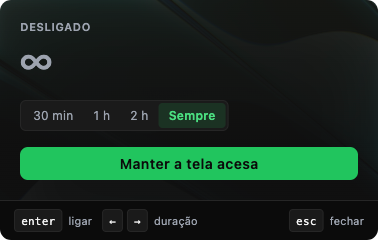
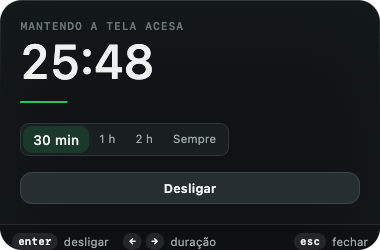
feat(onboarding): prints novos dos seis painéis em uso
A intro passa a mostrar um print de cada módulo com painel, em uso, e
ganha o Nest como sexto passo. Os prints agora saem dos goldens de
conferência, com dados de exemplo, em vez de capturas de tela com o
histórico de quem tirou.

Para os goldens servirem de vitrine, as fontes deles passam a ser as
que o app desenha (SF do sistema, no lugar do Arial) e ganham a Apple
Symbols de reserva para ⌘⌥⇧, que saíam como quadrados. A fixture do
Nest troca o caminho temporário e os "2 KB" por uma pasta e tamanhos
de verdade. Os 25 goldens foram regenerados.

diff --git a/lib/features/home/models/onboarding_step.dart b/lib/features/home/models/onboarding_step.dart
@@ -20,14 +20,22 @@ class OnboardingStep {
 
   final EvergreenModule module;
 
-  /// Print do painel real, recortado rente à borda dele.
+  /// Print do painel em uso, recortado rente à borda dele.
+  ///
+  /// Sai do golden de conferência do mesmo painel (`test/goldens/`), e não de
+  /// uma captura de tela: assim o print mostra dados de exemplo em vez do
+  /// histórico de quem tirou, e refazer os seis depois de uma mudança de
+  /// interface é rodar os goldens e recortar de novo. O recorte é o retângulo
+  /// do painel (tudo o que é mais claro que o fundo do golden), com os cantos
+  /// transparentes no raio do painel — o palco é verde, e o fundo do golden
+  /// apareceria nas quinas.
   final String image;
 
   /// Largura natural do print, em pixels.
   ///
-  /// Está aqui porque o palco **nunca amplia**: um print de 418px esticado para
+  /// Está aqui porque o palco **nunca amplia**: um print de 420px esticado para
   /// 556 fica borrado, e borrado é o que denuncia print de marketing. Quando o
-  /// print é mais largo que o palco — só o Leaf, com 776 —, ele reduz; nos
+  /// print é mais largo que o palco — só o Leaf, com 778 —, ele reduz; nos
   /// outros o palco simplesmente sobra em volta, que é o efeito desejado.
   final double imageWidth;
 
@@ -42,9 +50,9 @@ class OnboardingStep {
   /// Duas linhas. Mais que isso ninguém lê numa tela que se atravessa.
   final String line;
 
-  /// A ordem é a do Hub, e não a de importância declarada: o Pin abre porque é
-  /// o que a pessoa usa no primeiro minuto, e o Echo fecha porque é o que exige
-  /// mais dela (permissão de microfone, macOS 26).
+  /// A ordem é a do Hub, com uma troca: o Pin abre porque é o que a pessoa usa
+  /// no primeiro minuto, e o Echo fecha porque é o que exige mais dela
+  /// (permissão de microfone, macOS 26) — por isso o Nest vem antes dele.
   ///
   /// O Track fica de fora: ele não tem painel, só a tela do Hub, e um passo sem
   /// print seria o passo em que a apresentação admite que acabou o assunto.
@@ -52,18 +60,18 @@ class OnboardingStep {
     OnboardingStep(
       module: EvergreenModule.pin,
       image: 'assets/onboarding/pin.png',
-      imageWidth: 418,
-      imageHeight: 467,
+      imageWidth: 420,
+      imageHeight: 452,
       shortcut: '⌘⇧C',
       line:
-          'Tudo que você copia fica guardado aqui, com busca e fixados.\n'
+          'Tudo o que você copia fica guardado aqui, com busca e fixados.\n'
           'Nada sai da sua máquina.',
     ),
     OnboardingStep(
       module: EvergreenModule.focus,
       image: 'assets/onboarding/focus.png',
-      imageWidth: 378,
-      imageHeight: 250,
+      imageWidth: 380,
+      imageHeight: 410,
       shortcut: '⌘⇧F',
       line:
           'Um cronômetro que pergunta no que você vai trabalhar e guarda\n'
@@ -72,8 +80,8 @@ class OnboardingStep {
     OnboardingStep(
       module: EvergreenModule.leaf,
       image: 'assets/onboarding/leaf.png',
-      imageWidth: 776,
-      imageHeight: 494,
+      imageWidth: 778,
+      imageHeight: 736,
       shortcut: '⌘⇧D',
       line:
           'Nove anotações curtas, todas à vista de uma vez.\n'
@@ -82,18 +90,28 @@ class OnboardingStep {
     OnboardingStep(
       module: EvergreenModule.awake,
       image: 'assets/onboarding/awake.png',
-      imageWidth: 378,
-      imageHeight: 240,
+      imageWidth: 380,
+      imageHeight: 250,
       shortcut: '⌘⇧X',
       line:
-          'Segura a tela acesa pelo tempo que você escolher.\n'
+          'Mantém a tela acesa pelo tempo que você escolher.\n'
           'Sem abrir as configurações de energia.',
+    ),
+    OnboardingStep(
+      module: EvergreenModule.nest,
+      image: 'assets/onboarding/nest.png',
+      imageWidth: 420,
+      imageHeight: 434,
+      shortcut: '⌘⇧R',
+      line:
+          'Junte arquivos de várias pastas numa prateleira só\n'
+          'e mande todos de uma vez para onde precisam ir.',
     ),
     OnboardingStep(
       module: EvergreenModule.echo,
       image: 'assets/onboarding/echo.png',
-      imageWidth: 378,
-      imageHeight: 214,
+      imageWidth: 380,
+      imageHeight: 318,
       shortcut: '⌘⇧E',
       line:
           'Grava a reunião, separa a sua voz da dos outros e devolve em texto.\n'

diff --git a/test/golden_fonts.dart b/test/golden_fonts.dart
@@ -10,25 +10,23 @@ import 'package:flutter_test/flutter_test.dart';
 /// entra pelo mesmo motivo: sem uma mono de verdade os key-caps mediriam errado
 /// e esconderiam problemas de largura na barra de dicas.
 ///
+/// **As fontes são as que o app desenha de fato.** O Inter não vem empacotado,
+/// então no Mac quem responde é o SF do sistema (o fallback do tema) — e é ele
+/// que entra aqui no lugar do Inter. Era Arial, e os goldens mostravam um app
+/// que ninguém via. A `Apple Symbols` entra pelos nomes do fim de cada fallback
+/// porque nem o SF nem o SF Mono têm `⌘`, `⌥` e `⇧`: sem ela, toda tecla da
+/// barra de dicas virava um quadrado. Esses prints também são os da
+/// apresentação de boas-vindas (`assets/onboarding/`).
+///
 /// Compartilhada pelos arquivos de golden — duas cópias desta lista significam
 /// duas imagens desenhadas com fontes diferentes na primeira vez que uma delas
 /// mudar.
 Future<void> loadGoldenFonts() async {
   const faces = {
-    'Inter': [
-      '/System/Library/Fonts/Supplemental/Arial.ttf',
-      '/System/Library/Fonts/Supplemental/Arial Bold.ttf',
-    ],
-    'SF Mono': ['/System/Library/Fonts/Supplemental/Andale Mono.ttf'],
-    // O tema Apple pede a fonte do sistema (família nula, com estes nomes no
-    // fallback). Sob `flutter test` não existe fonte de sistema, e o texto sai
-    // como quadrados — registrar os mesmos arquivos sob os nomes que ele
-    // procura é o que faz as imagens dele conferirem alguma coisa. No app de
-    // verdade quem responde é o macOS.
-    'SF Pro Text': [
-      '/System/Library/Fonts/Supplemental/Arial.ttf',
-      '/System/Library/Fonts/Supplemental/Arial Bold.ttf',
-    ],
+    'Inter': ['/System/Library/Fonts/SFNS.ttf'],
+    'SF Mono': ['/System/Library/Fonts/SFNSMono.ttf'],
+    'Helvetica Neue': ['/System/Library/Fonts/Apple Symbols.ttf'],
+    'Menlo': ['/System/Library/Fonts/Apple Symbols.ttf'],
   };
 
   for (final entry in faces.entries) {

diff --git a/lib/features/home/presentation/widgets/hub_onboarding.dart b/lib/features/home/presentation/widgets/hub_onboarding.dart
@@ -128,13 +128,14 @@ class HubOnboarding extends StatelessWidget {
                     width: math.min(step.imageWidth, constraints.maxWidth),
                     child: DecoratedBox(
                       decoration: BoxDecoration(
-                        // Onze, e não um token de raio: este canto é o do
-                        // **print**, que já vem arredondado dentro do arquivo.
+                        // Vinte e dois, e não um token de raio: este canto é o
+                        // do **print**, que já vem arredondado dentro do
+                        // arquivo (o recorte usa o raio do painel no golden).
                         // A sombra precisa acompanhar aquele canto, não o que o
                         // tema em vigor usaria — ela é a sombra da imagem, não
                         // de um painel desenhado aqui.
                         borderRadius: const BorderRadius.all(
-                          Radius.circular(11),
+                          Radius.circular(22),
                         ),
                         boxShadow: context.eg.elevations.floatingPanel,
                       ),
@@ -215,8 +216,8 @@ class HubOnboarding extends StatelessWidget {
     );
   }
 
-  /// Quantos passos faltam. Sem número escrito: numa sequência de cinco, contar
-  /// pontos é mais rápido que ler "3 de 5".
+  /// Quantos passos faltam. Sem número escrito: numa sequência de seis, contar
+  /// pontos é mais rápido que ler "3 de 6".
   Widget _dots(BuildContext context) {
     return Semantics(
       label: 'Passo ${index + 1} de $total',

diff --git a/test/preview_golden_test.dart b/test/preview_golden_test.dart
@@ -641,15 +641,20 @@ void main() {
       '{"path":"/Users/lucas/Desktop/Triagem","alias":""}',
     ]);
 
+    // Numa pasta com nome de gente, e com tamanhos de arquivo de verdade: este
+    // print também é o do Nest na apresentação de boas-vindas, e o caminho
+    // temporário do teste (`…/T/nest_golden…`) e "2 KB" denunciavam a fixture.
+    final downloads = Directory(p.join(nestFiles.path, 'lucas', 'Downloads'))
+      ..createSync(recursive: true);
     final paths = <String>[];
-    for (final name in const [
-      'contrato-marina.pdf',
-      'reuniao-23-07.mov',
-      'notas fiscais',
+    for (final (name, bytes) in const [
+      ('contrato-marina.pdf', 248000),
+      ('reuniao-23-07.mov', 4800000),
+      ('notas fiscais', 0),
     ]) {
-      final path = p.join(nestFiles.path, name);
+      final path = p.join(downloads.path, name);
       if (name.contains('.')) {
-        File(path).writeAsStringSync('x' * 2400);
+        File(path).writeAsBytesSync(List.filled(bytes, 0));
       } else {
         Directory(path).createSync();
       }

diff --git a/lib/features/home/data/onboarding_repository.dart b/lib/features/home/data/onboarding_repository.dart
@@ -16,7 +16,7 @@ const bool kAlwaysShowOnboarding = false;
 ///
 /// Diferente da abertura animada do Hub, que roda a cada build nova: esta roda
 /// **uma vez por instalação e nunca mais**, atualização inclusive. Quem já
-/// conhece os cinco painéis não precisa ser reapresentado a eles porque uma
+/// conhece os seis painéis não precisa ser reapresentado a eles porque uma
 /// versão nova saiu.
 class OnboardingRepository {
   OnboardingRepository(this._prefs);
